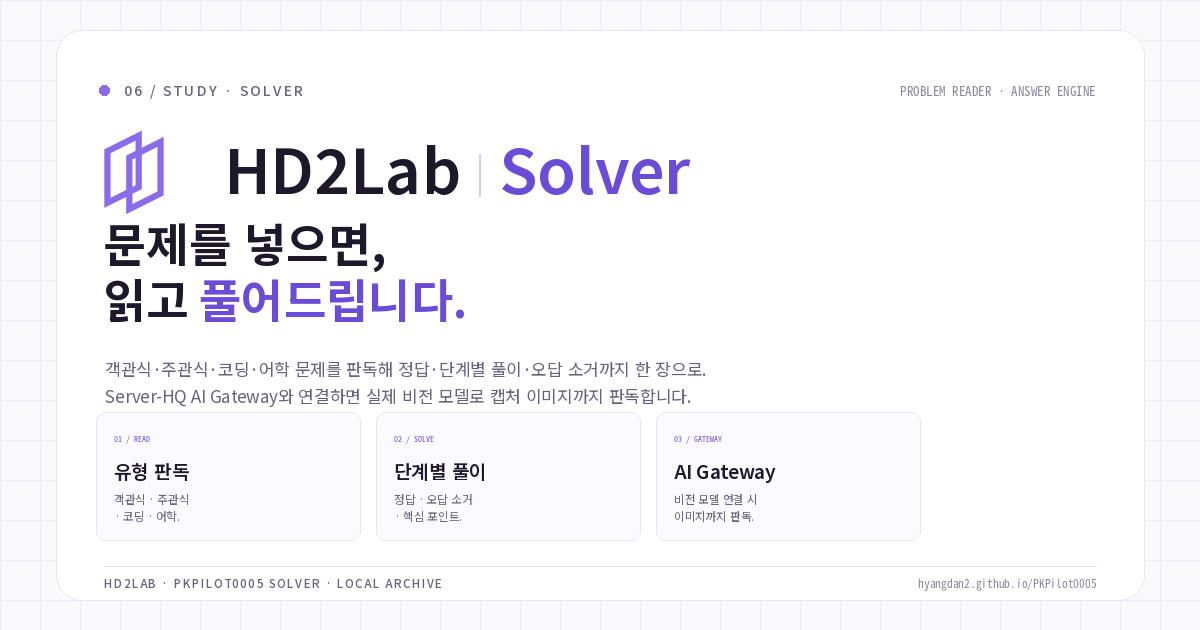
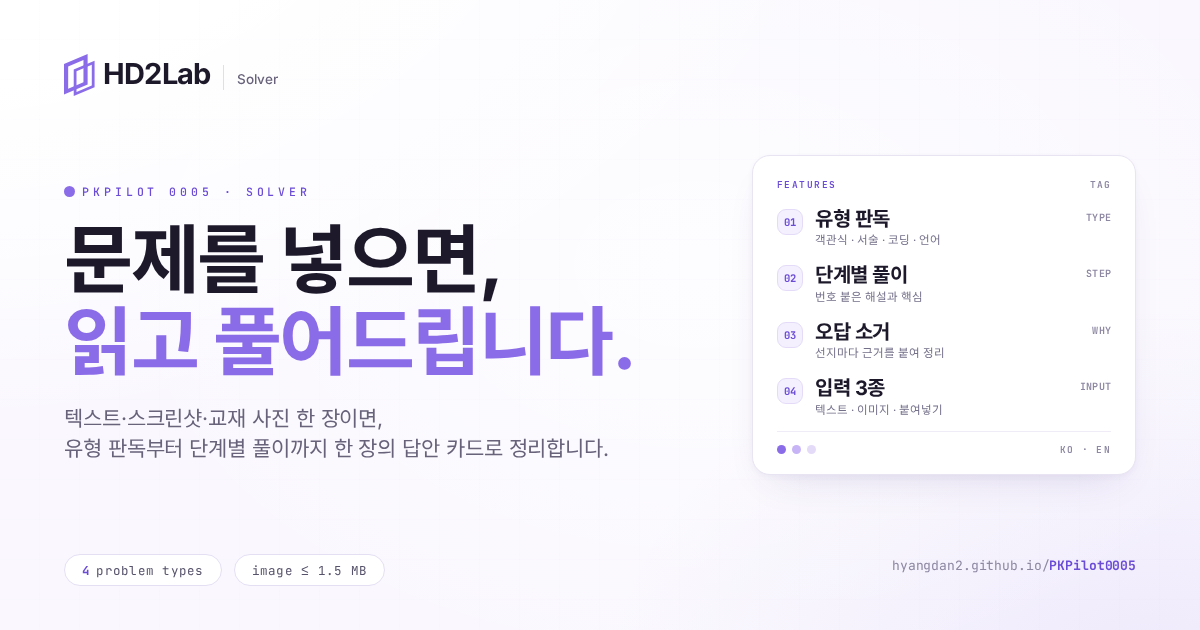
chore(og): share card in the HD2's Diary OG style (#2)
Rebuild og:image / twitter:image as the 1200x630 Diary-style card (Soft Iris wash, dual-skew mark, left title, right feature card) and bump the cache-busting query to ?v=20261121-og.

diff --git a/index.html b/index.html
@@ -28,8 +28,8 @@
   <meta property="og:title" content="HD2Lab | Solver (PKPilot0005)" />
   <meta property="og:description" content="문제를 넣으면, 읽고 풀어드립니다. 유형 판독 · 정답 · 단계별 풀이 · 오답 소거까지 한 장의 답안 카드로." />
   <meta property="og:url" content="https://hyangdan2.github.io/PKPilot0005/" />
-  <meta property="og:image" content="https://hyangdan2.github.io/PKPilot0005/og-image.png?v=20261116-softiris" />
-  <meta property="og:image:secure_url" content="https://hyangdan2.github.io/PKPilot0005/og-image.png?v=20261116-softiris" />
+  <meta property="og:image" content="https://hyangdan2.github.io/PKPilot0005/og-image.png?v=20261121-og" />
+  <meta property="og:image:secure_url" content="https://hyangdan2.github.io/PKPilot0005/og-image.png?v=20261121-og" />
   <meta property="og:image:type" content="image/png" />
   <meta property="og:image:width" content="1200" />
   <meta property="og:image:height" content="630" />
@@ -39,7 +39,7 @@
   <meta name="twitter:card" content="summary_large_image" />
   <meta name="twitter:title" content="HD2Lab | Solver (PKPilot0005)" />
   <meta name="twitter:description" content="문제를 넣으면, 읽고 풀어드립니다. 유형 판독 · 정답 · 단계별 풀이 · 오답 소거까지 한 장의 답안 카드로." />
-  <meta name="twitter:image" content="https://hyangdan2.github.io/PKPilot0005/og-image.png?v=20261116-softiris" />
+  <meta name="twitter:image" content="https://hyangdan2.github.io/PKPilot0005/og-image.png?v=20261121-og" />
   <meta name="twitter:image:alt" content="HD2Lab | Solver — 문제를 넣으면, 읽고 풀어드립니다" />
 
   <!-- HD2Lab shared theme: applies the stored hd2-theme before first paint (no flash) -->
